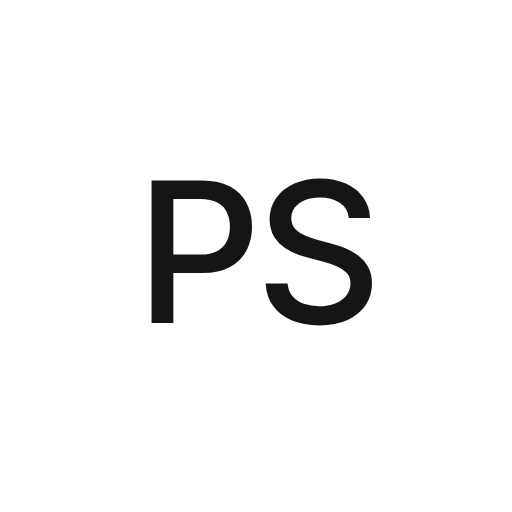
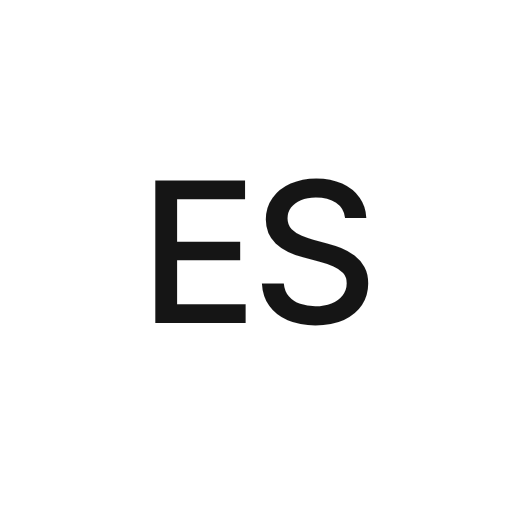
Rename the store to Ecruo Store; its name acts out the shop
- Ecruo Store in the header, tab titles, footer, About / Mobile app
  texts, manifest and the home-screen icon (ES); orders are ES-...; the
  placeholder email is hello@ecruostore.shop. The saved-state key and
  the PALE10 test code stay, so saved bags keep working.
- After a reference where GOAL's letters play a goal, the name now and
  again plays two shop scenes: the U flips over the O as a handle and
  the O squares into a shopping bag (drawn like the header's bag icon)
  that swings; the T is drawn into a clothes hanger that swings on its
  hook while ORE steps aside. Shapes are placed by the letters' ink, at
  their stroke width. The looping sheen is gone.

Claude-Session: https://claude.ai/code/session_01CdNkRXnRqRDPYboEBvJxjf

diff --git a/index.html b/index.html
@@ -3,8 +3,8 @@
 <head>
 <meta charset="utf-8">
 <meta name="viewport" content="width=device-width, initial-scale=1, viewport-fit=cover">
-<title>Pale Store</title>
-<meta name="description" content="Pale Store: clothing, bags, shoes and belts from Louis Vuitton, Chrome Hearts, Burberry, Moncler and more.">
+<title>Ecruo Store</title>
+<meta name="description" content="Ecruo Store: clothing, bags, shoes and belts from Louis Vuitton, Chrome Hearts, Burberry, Moncler and more.">
 <meta name="theme-color" content="#FFFFFF">
 <link rel="icon" href="data:,">
 <link rel="apple-touch-icon" href="assets/apple-touch-icon.png">
@@ -99,17 +99,17 @@ button{background:none;border:0;padding:0;cursor:pointer}
 .logo{display:flex;align-items:center;font-weight:600;font-size:19px;letter-spacing:.01em;line-height:1;text-transform:uppercase}
 /* desktop: name on the left, sections centred between the name and the icons */
 .hdr .logo{order:-1;padding-left:4px}
-/* the store name (owner's request: a quiet animation in the site's style, a constant smooth loop, and the letters
-   must not jump): its letters come in one after another, rising out of a light blur, when the site opens; then a soft
-   light keeps gliding through them, each letter lightening and coming back in turn, neighbors overlapping, so it
-   reads as one sheen passing like on the glass. Nothing moves in the loop. The two animations do not meet: the loop
-   starts after the entrance has ended. Letters are split by the script, so a new name works the same. */
+/* the store name: its letters come in one after another, rising out of a light blur, when the site opens; then now
+   and again they act out the shop for a moment (owner's request, after a reference where the letters of GOAL play a
+   goal): logoScenes() in the script. Letters are split by the script. */
 .logo.pre{opacity:0}
-.logo .lw{display:inline-block;white-space:pre}
+.logo .lw{display:inline-block;white-space:pre;position:relative}
+.logo .fx{position:absolute;left:0;top:0;width:100%;height:100%;pointer-events:none;overflow:visible}
+.logo .fx .body{position:absolute;box-sizing:border-box;border:solid currentColor}
+.logo .fx svg{position:absolute;left:0;top:0;width:100%;height:100%;overflow:visible;fill:none;stroke:currentColor;stroke-linecap:round;stroke-linejoin:round}
 .logo .ll{display:inline-block}
-.logo .ll{animation:logo-in .7s var(--ease) calc(var(--i) * 38ms + 80ms) backwards,logo-sheen 4.2s ease-in-out calc(var(--i) * 110ms + 1.6s) infinite}
+.logo .ll{animation:logo-in .7s var(--ease) calc(var(--i) * 38ms + 80ms) backwards}
 @keyframes logo-in{from{opacity:0;transform:translateY(.4em);filter:blur(4px)}}
-@keyframes logo-sheen{0%,30%,100%{color:var(--ink)}15%{color:#B4B4B4}}
 @media (prefers-reduced-motion:reduce){.logo .ll{animation:none!important}}
 .hdr{grid-template-columns:auto 1fr auto}
 .nav:not(.r){justify-content:center;padding:0 24px}
@@ -752,7 +752,7 @@ details[open].shut .pm::after{transform:rotate(90deg)}
     <a href="#accessories" data-r="accessories">Accessories</a>
     <a href="#sale" data-r="sale">Sale</a>
   </nav>
-  <a class="logo pre" href="#home" aria-label="Pale Store, home">Pale Store</a>
+  <a class="logo pre" href="#home" aria-label="Ecruo Store, home">Ecruo Store</a>
   <nav class="nav r" aria-label="Account">
     <button class="icon-btn" data-act="search" aria-label="Search" title="Search"><svg class="ico" viewBox="0 0 24 24"><circle cx="10.75" cy="10.75" r="6.25"/><path d="m15.5 15.5 4.25 4.25"/></svg></button>
     <a class="icon-btn" href="#account" data-r="account" aria-label="Account" title="Account"><svg class="ico" viewBox="0 0 24 24"><circle cx="12" cy="8" r="3.75"/><path d="M4.75 20c.6-3.6 3.6-6 7.25-6s6.65 2.4 7.25 6"/></svg></a>
@@ -782,7 +782,7 @@ details[open].shut .pm::after{transform:rotate(90deg)}
     <div class="soc">
       <a href="https://telegram.org" target="_blank" rel="noopener" aria-label="Telegram"><svg viewBox="0 0 24 24"><circle cx="12" cy="12" r="10" fill="currentColor"/><path fill="#fff" d="M6.4 11.7l9.7-3.8c.5-.2.9.1.7.8l-1.7 7.8c-.1.6-.5.7-.9.4l-2.5-1.8-1.2 1.2c-.1.1-.3.2-.5.2l.2-2.5 4.6-4.1c.2-.2 0-.3-.3-.1l-5.6 3.5-2.4-.8c-.5-.2-.5-.5.1-.8z"/></svg></a>
     </div>
-    <span class="copy">Pale Store © <span id="year">2026</span></span>
+    <span class="copy">Ecruo Store © <span id="year">2026</span></span>
   </div>
 </footer>
 
@@ -1825,8 +1825,8 @@ V.account = () => {
 };
 
 const PAGES = {
-  about: ['About', `<p>Pale Store brings together clothing, bags, shoes and belts from Louis Vuitton, Chrome Hearts, Burberry, Moncler, Balenciaga and other houses.</p><p>Every piece is shown on the same gray backdrop, so you can compare colors and details side by side.</p>`],
-  contact: ['Contact', `<p>Questions about an order, sizing or returns? Write to us and we answer within one business day.</p><h2>Email</h2><div class="copy-row"><span id="mail">hello@palestore.shop</span><button class="btn" style="height:30px;font-size:10.5px" data-act="copy" data-t="mail">Copy</button></div><h2>Hours</h2><p>Monday to Friday, 10:00 to 19:00</p>`],
+  about: ['About', `<p>Ecruo Store brings together clothing, bags, shoes and belts from Louis Vuitton, Chrome Hearts, Burberry, Moncler, Balenciaga and other houses.</p><p>Every piece is shown on the same gray backdrop, so you can compare colors and details side by side.</p>`],
+  contact: ['Contact', `<p>Questions about an order, sizing or returns? Write to us and we answer within one business day.</p><h2>Email</h2><div class="copy-row"><span id="mail">hello@ecruostore.shop</span><button class="btn" style="height:30px;font-size:10.5px" data-act="copy" data-t="mail">Copy</button></div><h2>Hours</h2><p>Monday to Friday, 10:00 to 19:00</p>`],
   faq: ['FAQ', `<div class="faq">${[
     ['How long does delivery take?', 'Standard shipping takes 3 to 5 business days and is free. Express takes 1 to 2 business days.'],
     ['Can I return an order?', 'Yes. Returns are free within 30 days of delivery, as long as the piece is unworn and has its tags.'],
@@ -1834,8 +1834,8 @@ const PAGES = {
     ['Which payment methods do you accept?', 'Visa, Mastercard, UnionPay and American Express. You enter your card at checkout.'],
     ['How do I track my order?', 'Your orders are listed in your account. A tracking link arrives by email once the parcel ships.'],
   ].map(([q, a]) => `<details><summary>${q}<span class="pm"></span></summary><div class="body">${a}</div></details>`).join('')}</div>`],
-  privacy: ['Privacy', `<p>We keep only what we need to deliver your order: your name, email and shipping address.</p><p>We never sell your data. Your bag and wishlist are stored in this browser.</p><p>To delete your account and data, write to hello@palestore.shop.</p>`],
-  app: ['Mobile app', `<p>The Pale Store app for iPhone and Android is in the works. Until then, this site works the same on your phone: add it to your home screen from the browser menu.</p>`],
+  privacy: ['Privacy', `<p>We keep only what we need to deliver your order: your name, email and shipping address.</p><p>We never sell your data. Your bag and wishlist are stored in this browser.</p><p>To delete your account and data, write to hello@ecruostore.shop.</p>`],
+  app: ['Mobile app', `<p>The Ecruo Store app for iPhone and Android is in the works. Until then, this site works the same on your phone: add it to your home screen from the browser menu.</p>`],
 };
 V.page = k => `${backBtn('home')}<div class="page"><h1 class="h-title">${PAGES[k][0]}</h1><div style="margin-top:18px">${PAGES[k][1]}</div></div>`;
 V.missing = () => `<div class="empty"><h1 class="h-title">Not found</h1><p>This page moved or never existed.</p><a class="btn" href="#home">Back to the store</a></div>`;
@@ -1960,11 +1960,11 @@ function paint(r, key, scroll) {
   if (r.name === 'product') mountProduct();
 }
 function titleFor(r) {
-  if (r.name === 'product' && BY[r.arg]) { const p = vOf(BY[r.arg], PV.v); return p.brand + ' ' + p.name + (p.variants.length > 1 ? ', ' + p.color.name : '') + ' | Pale Store'; }
-  if (r.name === 'list') return LISTS[r.arg].title + ' | Pale Store';
-  if (r.name === 'page') return PAGES[r.arg][0] + ' | Pale Store';
-  if (r.name === 'home') return 'Pale Store';
-  return r.name.charAt(0).toUpperCase() + r.name.slice(1) + ' | Pale Store';
+  if (r.name === 'product' && BY[r.arg]) { const p = vOf(BY[r.arg], PV.v); return p.brand + ' ' + p.name + (p.variants.length > 1 ? ', ' + p.color.name : '') + ' | Ecruo Store'; }
+  if (r.name === 'list') return LISTS[r.arg].title + ' | Ecruo Store';
+  if (r.name === 'page') return PAGES[r.arg][0] + ' | Ecruo Store';
+  if (r.name === 'home') return 'Ecruo Store';
+  return r.name.charAt(0).toUpperCase() + r.name.slice(1) + ' | Ecruo Store';
 }
 window.addEventListener('hashchange', () => render(true));
 // Photos already shown once show at once when a page is drawn again (Back, a filter); the rest fade in when they arrive.
@@ -2021,7 +2021,93 @@ function dropToast() { clearTimeout(toastT); const t = $('#toast'); if (t) t.rem
 // ---- smooth changes (owner's request: no jumps anywhere). Every helper falls back to the instant change when the
 // browser has no Web Animations or the visitor asked for reduced motion.
 const still = () => matchMedia('(prefers-reduced-motion: reduce)').matches;
-// the store name letter by letter, for its entrance and its looping sheen (styles at .logo .ll)
+// The store name acts out the shop for a moment, one scene after the other with a rest between (owner's request,
+// after a reference where the letters of GOAL play a goal): the U of ECRUO flips over the O as its handle and the O
+// squares into a shopping bag that swings; the T of STORE turns into a clothes hanger, drawn in one line, that swings
+// on its hook. Then the letters come back as they were. A scene whose letters a new name lacks is skipped. Shapes are
+// placed by the ink of the letters (measured on a canvas), so they meet the letters at any font size.
+function logoScenes(a) {
+  const lw = $('.lw', a), L = $$('.ll', lw), ch = el => el.textContent.toUpperCase();
+  const ctx = document.createElement('canvas').getContext('2d');
+  // where a letter's ink sits inside the name, in px
+  const ink = el => {
+    const cs = getComputedStyle(el), fs = parseFloat(cs.fontSize);
+    ctx.font = `${cs.fontWeight} ${cs.fontSize} ${cs.fontFamily}`;
+    const m = ctx.measureText(ch(el)), base = (fs - m.fontBoundingBoxAscent - m.fontBoundingBoxDescent) / 2 + m.fontBoundingBoxAscent;
+    const x = el.offsetLeft - m.actualBoundingBoxLeft, y = el.offsetTop + base - m.actualBoundingBoxAscent;
+    return { x, y, w: m.actualBoundingBoxLeft + m.actualBoundingBoxRight, h: m.actualBoundingBoxAscent + m.actualBoundingBoxDescent, fs };
+  };
+  const E = 'cubic-bezier(.22,.8,.24,1)', go = (el, k, o) => el.animate(k, { fill: 'forwards', easing: E, ...o }).finished;
+  const fx = () => { const f = document.createElement('span'); f.className = 'fx'; lw.append(f); return f; };
+  const swing = (el, ox, oy, deg) => { el.style.transformOrigin = `${ox}px ${oy}px`;
+    return el.animate([0, 1, -.75, .45, -.2, 0].map(k => ({ transform: `rotate(${k * deg}deg)` })), { duration: 1700, easing: 'ease-in-out' }).finished; };
+  const ui = L.findIndex((el, i) => ch(el) === 'U' && L[i + 1] && ch(L[i + 1]) === 'O'), T = L.find(el => ch(el) === 'T');
+
+  async function bag() {
+    const U = L[ui], O = L[ui + 1], u = ink(U), o = ink(O), sw = o.fs * .13;
+    // the bag drawn like the bag icon in the header (a 24-unit box: body from 8.25 to 21, handle legs inside it), as
+    // tall as the letters with its handle, centred where the U and the O stood
+    const k = o.h * 1.18 / 17, bw = 14 * k, bh = 12.75 * k, cx = (u.x + o.x + o.w) / 2, bx = cx - bw / 2, by = o.y + o.h - bh;
+    const X = v => bx + (v - 5) * k, Y = v => by + (v - 8.25) * k, r = 2.25 * k + sw / 2, c = sw * .3;
+    const f = fx(), body = document.createElement('i');
+    body.className = 'body';
+    f.innerHTML = `<svg viewBox="0 0 ${lw.offsetWidth} ${lw.offsetHeight}" style="stroke-width:${sw}px;opacity:0"><path d="M${X(9)} ${Y(11.25)}V${Y(7)}A${3 * k} ${3 * k} 0 0 1 ${X(15)} ${Y(7)}V${Y(11.25)}"/></svg>`;
+    f.prepend(body);
+    const svg = $('svg', f);
+    const ring = { left: o.x + 'px', top: o.y + 'px', width: o.w + 'px', height: o.h + 'px', borderRadius: '50%', borderWidth: sw + 'px' };
+    const box = { left: bx + 'px', top: by + 'px', width: bw + 'px', height: bh + 'px', borderRadius: `${c}px ${c}px ${r}px ${r}px`, borderWidth: sw + 'px' };
+    Object.assign(body.style, ring, { opacity: 0 });
+    // the U upside down is the handle: it flies over the bag, turning and shrinking to the handle's size
+    const hx0 = X(9) - sw / 2, hx1 = X(15) + sw / 2, hy0 = Y(4) - sw / 2, hy1 = Y(11.25);
+    const dx = (hx0 + hx1) / 2 - (u.x + u.w / 2), dy = (hy0 + hy1) / 2 - (u.y + u.h / 2);
+    const pose = `translate(${dx}px,${dy}px) rotate(180deg) scale(${(hx1 - hx0) / u.w},${(hy1 - hy0) / u.h})`;
+    U.style.transformOrigin = `${u.x - U.offsetLeft + u.w / 2}px ${u.y - U.offsetTop + u.h / 2}px`;
+    const fade = (a, b, d = 180) => Promise.all([go(a, [{ opacity: 1 }, { opacity: 0 }], { duration: d }), go(b, [{ opacity: 0 }, { opacity: 1 }], { duration: d })]);
+    await fade(O, body, 160);
+    await Promise.all([go(U, [{ transform: 'none' }, { transform: pose }], { duration: 700 }), go(body, [ring, box], { duration: 620, delay: 100 })]);
+    await fade(U, svg);
+    await swing(f, cx, hy0, 7);
+    await fade(svg, U);
+    await Promise.all([go(U, [{ transform: pose }, { transform: 'none' }], { duration: 650 }), go(body, [box, ring], { duration: 560 })]);
+    await fade(body, O, 160);
+    [U, O].forEach(el => { el.getAnimations().forEach(x => x.cancel()); el.style.transformOrigin = ''; });
+    f.remove();
+  }
+
+  async function hanger() {
+    // the letters after the T step aside to make room, as in the reference, and come back after; the hanger stands in
+    // the middle of the room (the S keeps its place, so it does not close up to the first word)
+    const t = ink(T), sw = t.fs * .13, room = t.w * .32, cx = t.x + t.w / 2 + room, f = fx();
+    const after = L.slice(L.indexOf(T) + 1);
+    const aside = back => Promise.all(after.map(el => go(el, [{ transform: 'none' }, { transform: `translateX(${room * 2}px)` }], { duration: 500, direction: back ? 'reverse' : 'normal' })));
+    // a hanger the size of the T: the bar on the baseline, the shoulders up to the neck, the hook curling over it
+    const bar = t.y + t.h, half = t.w * .6, neck = t.y + t.h * .38, top = t.y - t.h * .1, r = t.h * .17;
+    f.innerHTML = `<svg viewBox="0 0 ${lw.offsetWidth} ${lw.offsetHeight}" style="stroke-width:${sw}px"><path pathLength="1" d="M${cx} ${neck}L${cx - half} ${bar}H${cx + half}Z"/><path pathLength="1" d="M${cx} ${neck}V${top + r}A${r} ${r} 0 1 1 ${cx + r} ${top}"/></svg>`;
+    const ps = $$('path', f);
+    ps.forEach(pth => { pth.style.strokeDasharray = '1 1'; pth.style.strokeDashoffset = 1; });
+    await Promise.all([aside(false), go(T, [{ opacity: 1 }, { opacity: 0 }], { duration: 260 }),
+      go(ps[0], [{ strokeDashoffset: 1 }, { strokeDashoffset: 0 }], { duration: 650, delay: 120 }),
+      go(ps[1], [{ strokeDashoffset: 1 }, { strokeDashoffset: 0 }], { duration: 450, delay: 560 })]);
+    await swing($('svg', f), cx, top, 9);
+    await Promise.all([go(ps[1], [{ strokeDashoffset: 0 }, { strokeDashoffset: 1 }], { duration: 350 }),
+      go(ps[0], [{ strokeDashoffset: 0 }, { strokeDashoffset: 1 }], { duration: 550, delay: 200 }),
+      go(T, [{ opacity: 0 }, { opacity: 1 }], { duration: 300, delay: 450 }), aside(true)]);
+    [T, ...after].forEach(el => el.getAnimations().forEach(x => x.cancel()));
+    f.remove();
+  }
+
+  const scenes = [ui >= 0 && bag, T && hanger].filter(Boolean);
+  if (!scenes.length) return;
+  let k = 0;
+  // waits while the tab is hidden, so a scene is never left half played
+  const next = () => setTimeout(async () => {
+    if (document.hidden || still()) return next();
+    try { await scenes[k++ % scenes.length](); } catch (e) {}
+    next();
+  }, k ? 5200 : 2400);
+  next();
+}
+// the store name letter by letter, for its entrance and its scenes (styles at .logo .ll)
 (() => {
   const a = $('.hdr .logo');
   if (!a) return;
@@ -2029,6 +2115,7 @@ const still = () => matchMedia('(prefers-reduced-motion: reduce)').matches;
   a.innerHTML = `<span class="lw" aria-hidden="true">${[...a.textContent].map(c => c === ' ' ? ' ' : `<span class="ll" style="--i:${n++}">${esc(c)}</span>`).join('')}</span>`;
   // hidden until split (class pre in the markup), so the whole name does not flash before its letters come in
   a.classList.remove('pre');
+  if (!still() && a.animate) logoScenes(a);
 })();
 // a part of the page fades out, the change is drawn, and it fades back in; the newest change wins
 let fT = 0;
@@ -2792,7 +2879,7 @@ document.addEventListener('submit', e => {
     });
     if (bad) { $('#co-err').textContent = msg; bad.focus(); return; }
     const sub = subtotal(), d = discount(), ship = express ? EXPRESS : 0;
-    const n = 'PS-' + (1041 + S.orders.length);
+    const n = 'ES-' + (1041 + S.orders.length);
     // only the brand and the last 4 digits are kept, as on a receipt
     const pay = { brand: CARDS[payBy].name, last4: digits($('#cc-num').value).slice(-4) };
     // the order is built now but held until the SMS code is confirmed

diff --git a/AGENTS.md b/AGENTS.md
@@ -55,7 +55,7 @@
 - Под шапкой полоса `#strip`, её заполняет `paint()` (до вставки страницы, иначе съезжает возврат прокрутки): на главной плашка Telegram (`TG`, `.tg-pill`, по центру: пилюля в стиле ценников, синий значок `--tg`, «New drops land in Telegram first» и «Join →»; на компьютере «Join →» спрятан и проявляется при наведении (просьба владельца). Плашка при этом стоит на месте и не меняет ширину (владелец: подъём и расширение выглядели несимметрично): в покое значок с текстом сдвинуты вправо на `--tgs` (ставит `placeTG()` по ширине «Join»), так что отступы по краям равны; при наведении они плавно отходят влево, «Join →» проявляется на освободившемся месте, стрелка покачивается с паузой при уходе. На телефоне наведения нет, «Join →» виден всегда), в разделах каталога переключатель All / Men / Women / Unisex (`.gpill`; на телефоне и планшете до 900px его нет — `#strip:has(.gpill){display:none}`, просьба владельца, там пол выбирают меню и поиск; белая часть — отдельный `<i>`, плавно переезжает на выбранный пункт, место ставит `placeG()`; при переходе между разделами пилюля не перерисовывается, а обновляется на месте, чтобы ехать; переключение пола плавное (просьба владельца: было «рваное»): `switchGender()` сразу двигает белую часть, а страница под ней гаснет за 160 мс и проявляется уже с новым выбором (Web Animations на `.view`, прокрутка на месте). View Transition здесь не использовать: снимок стеклянной пилюли прямоугольный, и её размытие с тенью на миг обрезались в квадратные углы (владелец заметил)), на остальных страницах пусто (просьба владельца: Telegram только на Home). Владелец перепробовал варианты Telegram: плашку над шапкой и значок внутри шапки он отклонил, нужна именно плашка под шапкой.
 - **Прозрачные плашки** (просьба владельца, класс `.glass`): шапка, ценники и карточка с заголовком на главной, бейджи и сердечки на карточках, быстрое добавление размера при наведении, выбор размера (на телефоне — шторка снизу), поиск, мобильное меню, уведомление «Added to bag», нижняя панель «Add to bag» на телефоне. Там, где на плашке нужно читать или нажимать, стекло плотнее. **Светлое стекло** (просьба владельца по референсу: серые плашки сливались с белым фоном): белая полупрозрачная плашка с тонким серым краем `--glass-line`, бликом сверху `--glass-sheen` (фон-градиент, поэтому в переопределениях пиши `background-color`, а не `background`) и мягкой тенью `--glass-shadow` (`--glass-shadow-sm` у бейджей и сердечек на фото); то же у шапки, плашки Telegram и переключателя пола (общее правило `.glass,.hdr,.gpill,.tg-pill`). Внутри белых панелей наведение и кнопки размеров — лёгкий серый `rgba(0,0,0,.045-.055)`, белое на белом не видно. Серые кнопки (`.btn`, фильтры, Back) остались серыми (выбор владельца).
 - **Шапка на телефоне** (просьба владельца): слева меню и сразу название магазина, справа поиск, профиль (`#account`) и корзина.
-- Название **Pale Store** — **временное**, владелец поменяет. **Анимация названия в шапке** (просьба владельца: «аккуратно, ненавязчиво, в стиле сайта», «постоянная плавная цикличная», и «не нравится, что текст прыгает»): скрипт делит надпись на буквы (`.ll`, `--i`); при открытии сайта они по очереди проявляются, поднимаясь из лёгкого размытия (`logo-in`, один раз), затем по ним всё время скользит мягкий блик — буквы по очереди светлеют и возвращаются, соседние перекрываются (`logo-sheen`, только цвет, 4,2 с на круг, начинается после появления). Буквы в цикле не двигаются: подъём букв (волну) владелец отклонил. До разбиения надпись скрыта (`.logo.pre`), чтобы не мигала целиком; при `prefers-reduced-motion` без анимации. Логотипа нет: в шапке только надпись (пиксельную вешалку владелец попросил убрать отовсюду, favicon пустой `data:,`, чтобы браузер не запрашивал `/favicon.ico`). Для экрана «Домой» есть **временная** иконка «PS» (`assets/apple-touch-icon.png`, `icon-192` / `icon-512`, `manifest.webmanifest`; страница Mobile app предлагает добавить сайт на экран) — заменить, когда будет логотип. В превью строки с иконкой и manifest вырезаются вместе с `<head>`.
+- Название **Ecruo Store** (владелец сменил с временного Pale Store): в шапке, заголовках вкладок, подвале, текстах About / Mobile app, manifest; номера заказов `ES-…`, почта-заглушка `hello@ecruostore.shop`. Не менялись: ключ `pale.v1` в localStorage (иначе пропали бы сохранённые корзины), промокод `PALE10`. **Анимация названия в шапке** (просьба владельца по референсу-видео, где буквы GOAL разыгрывают гол): скрипт делит надпись на буквы (`.ll`), при открытии сайта они по очереди проявляются (`logo-in`); затем `logoScenes()` по очереди, с паузой ~5 с, играет две сценки про магазин: U из ECRUO переворачивается и становится ручкой над O, O превращается в корпус сумки (как иконка корзины в шапке: ножки ручки внутри корпуса), сумка качается и снова становится буквами; T из STORE рисуется линией в вешалку, буквы ORE отходят вправо, вешалка качается на крючке и снова становится T. Фигуры ставятся по контуру букв (`ink()`, измерение на canvas), толщина линии как у букв; сценка без нужных букв (если название сменится) пропускается; при скрытой вкладке ждёт. Подъём букв в цикле и блик владелец отклоняли («текст прыгает»), сценки — его запрос. До разбиения надпись скрыта (`.logo.pre`); при `prefers-reduced-motion` без анимации. Логотипа нет: в шапке только надпись (пиксельную вешалку владелец попросил убрать отовсюду, favicon пустой `data:,`, чтобы браузер не запрашивал `/favicon.ico`). Для экрана «Домой» есть **временная** иконка «ES» (`assets/apple-touch-icon.png`, `icon-192` / `icon-512`, `manifest.webmanifest`; страница Mobile app предлагает добавить сайт на экран) — заменить, когда будет логотип. В превью строки с иконкой и manifest вырезаются вместе с `<head>`.
 - Интерфейс на английском, как на референсах. Нужен ли русский — открытый вопрос.
 
 ## Фото
@@ -90,5 +90,5 @@
 ## Заглушки и открытые вопросы
 
 - **Цены и размеры товаров — заглушки** (цены с сайтов брендов, где их нет — с ресейла; например джинсы Chrome Hearts $30,094 — цена ресейла), владелец пришлёт свои. Отметки New in (8 вещей) и текст карточки на главной тоже заглушки. Официальной коллаборации Timberland x Chrome Hearts не нашлось, ботинки названы просто «Timberland 6-Inch Boot with Cross Patches», модель жилета Moncler не подтверждена, поэтому «Hooded Down Vest». Во второй заливке: маска Gucci GG и джинсы Amiri с херувимом не нашлись как официальные модели; у рюкзаков Chrome Hearts, ремня Chrome Hearts с языком Rolling Stones, худи ERD и Vetements Sexual Fantasies, свитшота Comme des Garçons x Rolling Stones и куртки Supreme цена — оценка по похожим вещам; свитер Stone Island назван описательно.
-- Тексты FAQ, условия доставки и возврата, почта `hello@palestore.shop`, ссылка на Telegram (плашка под шапкой и подвал, пока `https://telegram.org`, нужна ссылка на канал владельца; Instagram и X владелец попросил убрать), текст плашки Telegram, тексты About / Privacy / Mobile app — придуманы для примера, владелец заменит.
+- Тексты FAQ, условия доставки и возврата, почта `hello@ecruostore.shop`, ссылка на Telegram (плашка под шапкой и подвал, пока `https://telegram.org`, нужна ссылка на канал владельца; Instagram и X владелец попросил убрать), текст плашки Telegram, тексты About / Privacy / Mobile app — придуманы для примера, владелец заменит.
 - Ждут решения владельца: русский язык, реальное название и логотип, свои цены и размеры, подключение Vercel, рынок (Россия или за рубежом: валюта, доставка, платёжный сервис), как владельцу получать заказы (сейчас заказ остаётся только в браузере покупателя).

diff --git a/CHAT-LOG.md b/CHAT-LOG.md
@@ -156,6 +156,9 @@
 55. **Волна в названии теперь постоянная:** мягко пробегает по буквам каждые 3,6 секунды, без наведения.
 56. **Текст не прыгает:** вместо подъёма букв по названию постоянно скользит мягкий блик (буквы по очереди светлеют),
     буквы стоят на месте.
+57. **Новое название ECRUO STORE** (везде на сайте, иконка «ES», номера заказов ES-…) и **анимация по референсу**:
+    буквы время от времени разыгрывают сценки — U и O складываются в сумку, которая качается; T превращается в
+    вешалку, которая качается на крючке; потом снова буквы.
 
 ---
 
@@ -172,8 +175,8 @@
 ## Заглушки и что ждёт владельца
 
 - **Заглушки:** цены и размеры товаров, скидки в Sale, тексты баннеров Sale, таблицы размеров,
-  пол товаров, отметки New in, тексты FAQ/About/Privacy/Mobile app, почта `hello@palestore.shop`,
-  ссылка Telegram (`https://telegram.org`), название «Pale Store» и отсутствие логотипа.
+  пол товаров, отметки New in, тексты FAQ/About/Privacy/Mobile app, почта `hello@ecruostore.shop`,
+  ссылка Telegram (`https://telegram.org`), отсутствие логотипа.
 - **Не подключено:** оплата и отправка СМС-кода (обе — только формы). Заказ сейчас остаётся
   только в браузере покупателя — нужно решить, как владельцу их получать (Telegram-бот, почта, CRM).
 - **Ждут решения:** русский язык интерфейса, реальные название и логотип, свои цены/размеры,
